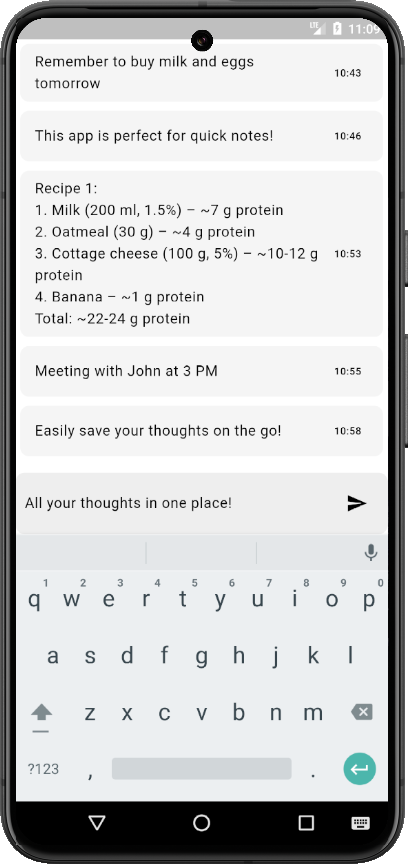
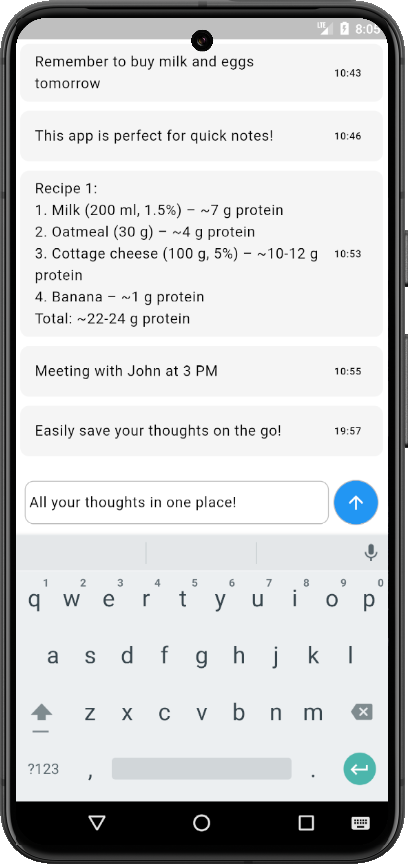
UI redesign and layout improvements

Changed region(s): [[0.0588, 0.5625, 0.5882, 0.5938], [0.7941, 0.5312, 0.9412, 0.625], [0.7647, 0.0, 0.8824, 0.0625]]

diff --git a/lib/pages/main_page.dart b/lib/pages/main_page.dart
@@ -82,11 +82,10 @@ class _HomePageState extends State<HomePage> {
                 },
               ),
               ListTile(
-                leading: const Icon(Icons.edit),
+                leading: const Icon(Icons.edit_outlined),
                 title: const Text('Edit'),
                 onTap: () {
                   Navigator.pop(context);
-                  //_editMessage(messageId, _messageController.text);
                   _showEditDialog(context, messageId);
                 },
               )
@@ -112,7 +111,7 @@ class _HomePageState extends State<HomePage> {
           padding: EdgeInsets.only(
             left: 10, 
             right: 20, 
-            top: 10, 
+            top: 15, 
             bottom: MediaQuery.of(context).viewInsets.bottom + 15
           ),
           child: Row(
@@ -121,17 +120,37 @@ class _HomePageState extends State<HomePage> {
               Expanded(
                 child: TextField(
                   controller: _editMessageController,
-                  decoration: InputDecoration(labelText: 'Edit'),
+                  decoration: InputDecoration(
+                    labelText: 'Edit',
+                    contentPadding: EdgeInsets.all(10),
+                    enabledBorder: OutlineInputBorder(
+                      borderRadius: BorderRadius.circular(10),
+                      borderSide: BorderSide(color: Colors.grey.shade400)
+                    ),
+                    focusedBorder: OutlineInputBorder(
+                      borderRadius: BorderRadius.circular(10),
+                      borderSide: BorderSide(color: Colors.grey.shade400)
+                    ),
+                    border: OutlineInputBorder()
+                  ),
                   minLines: 1,
                   maxLines: 10,
                 )
               ),
-              IconButton(
-                onPressed: () {
-                  Navigator.pop(context);
-                  _editMessage(messageId, _editMessageController.text);
-                }, 
-                icon: const Icon(Icons.send)
+              SizedBox(width: 5),
+              Container(
+                decoration: BoxDecoration(
+                  shape: BoxShape.circle,
+                  color: Colors.blue,
+                  border: Border.all(color: Colors.grey.shade400)
+                ),
+                child: IconButton(
+                  onPressed: () {
+                    Navigator.pop(context);
+                    _editMessage(messageId, _editMessageController.text);
+                  },
+                  icon: const Icon(Icons.arrow_upward, color: Colors.white)
+                )
               )
             ],
           ),
@@ -156,7 +175,7 @@ class _HomePageState extends State<HomePage> {
                 return Container(
                   margin: EdgeInsets.symmetric(vertical: 5, horizontal: 5),
                   decoration: BoxDecoration(
-                    color: Colors.grey.shade200,
+                    color: Colors.grey.shade100,
                     borderRadius: BorderRadius.circular(10)
                   ),
                   child: ListTile(
@@ -172,27 +191,42 @@ class _HomePageState extends State<HomePage> {
           Container(
             padding: EdgeInsets.all(10),
             decoration: BoxDecoration(
-              color: Colors.grey.shade200,
               borderRadius: BorderRadius.circular(10)
             ),
             child: Row(
-              crossAxisAlignment: CrossAxisAlignment.end,
               children: [
                 Expanded(
                   child: TextField(
                     minLines: 1,
-                    maxLines: 8,
+                    maxLines: 10,
                     controller: _messageController,
                     decoration: InputDecoration(
+                      contentPadding: EdgeInsets.all(10),
                       hintText: 'Type your thoughts',
-                      border: InputBorder.none,
+                      enabledBorder: OutlineInputBorder(
+                        borderRadius: BorderRadius.circular(10),
+                        borderSide: BorderSide(color: Colors.grey.shade400)
+                      ),
+                      focusedBorder: OutlineInputBorder(
+                        borderRadius: BorderRadius.circular(10),
+                        borderSide: BorderSide(color: Colors.grey.shade400)
+                      ),
+                      border: OutlineInputBorder()
                     ),
                   )
                 ),
+                SizedBox(width: 5),
                 // send button to add messages
-                IconButton(
-                  onPressed: () => _addMessage(_messageController.text),
-                  icon: const Icon(Icons.send)
+                Container(
+                  decoration: BoxDecoration(
+                    shape: BoxShape.circle,
+                    color: Colors.blue,
+                    border: Border.all(color: Colors.grey.shade400)
+                  ),
+                  child: IconButton(
+                    onPressed: () => _addMessage(_messageController.text),
+                    icon: const Icon(Icons.arrow_upward, color: Colors.white)
+                  ),
                 )
               ],
             ),
